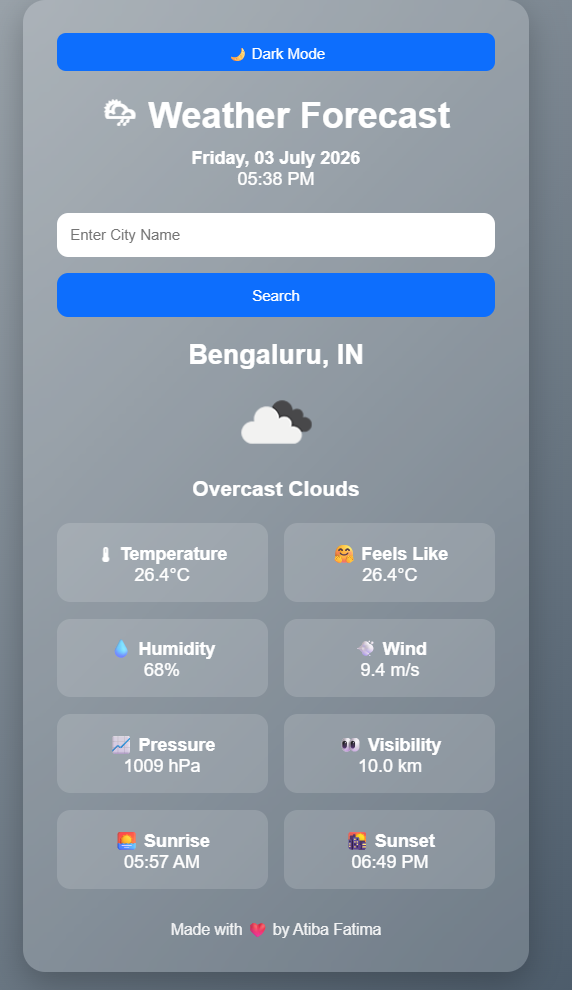
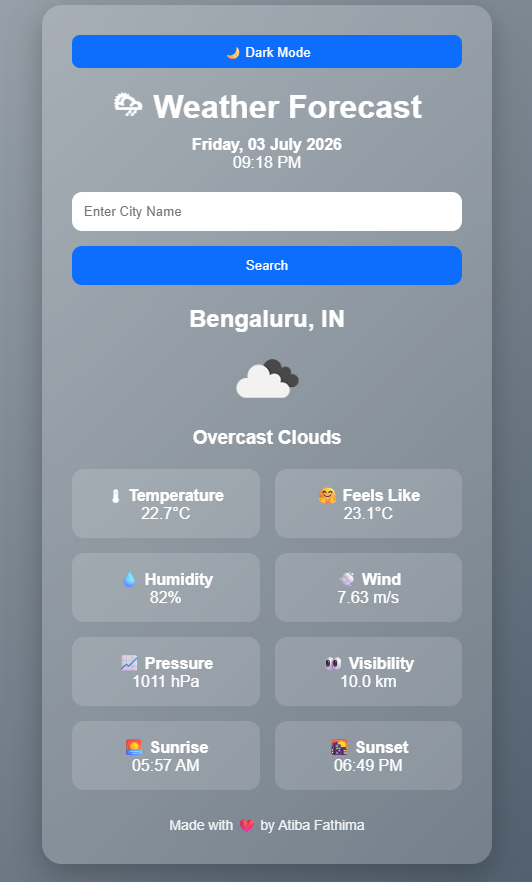
updated screenshots and homepage

diff --git a/templates/index.html b/templates/index.html
@@ -95,7 +95,7 @@
     {% endif %}
 
     <footer>
-        Made with ❤️ by Atiba Fatima
+        Made with ❤️ by Atiba Fathima
     </footer>
 
 </div>